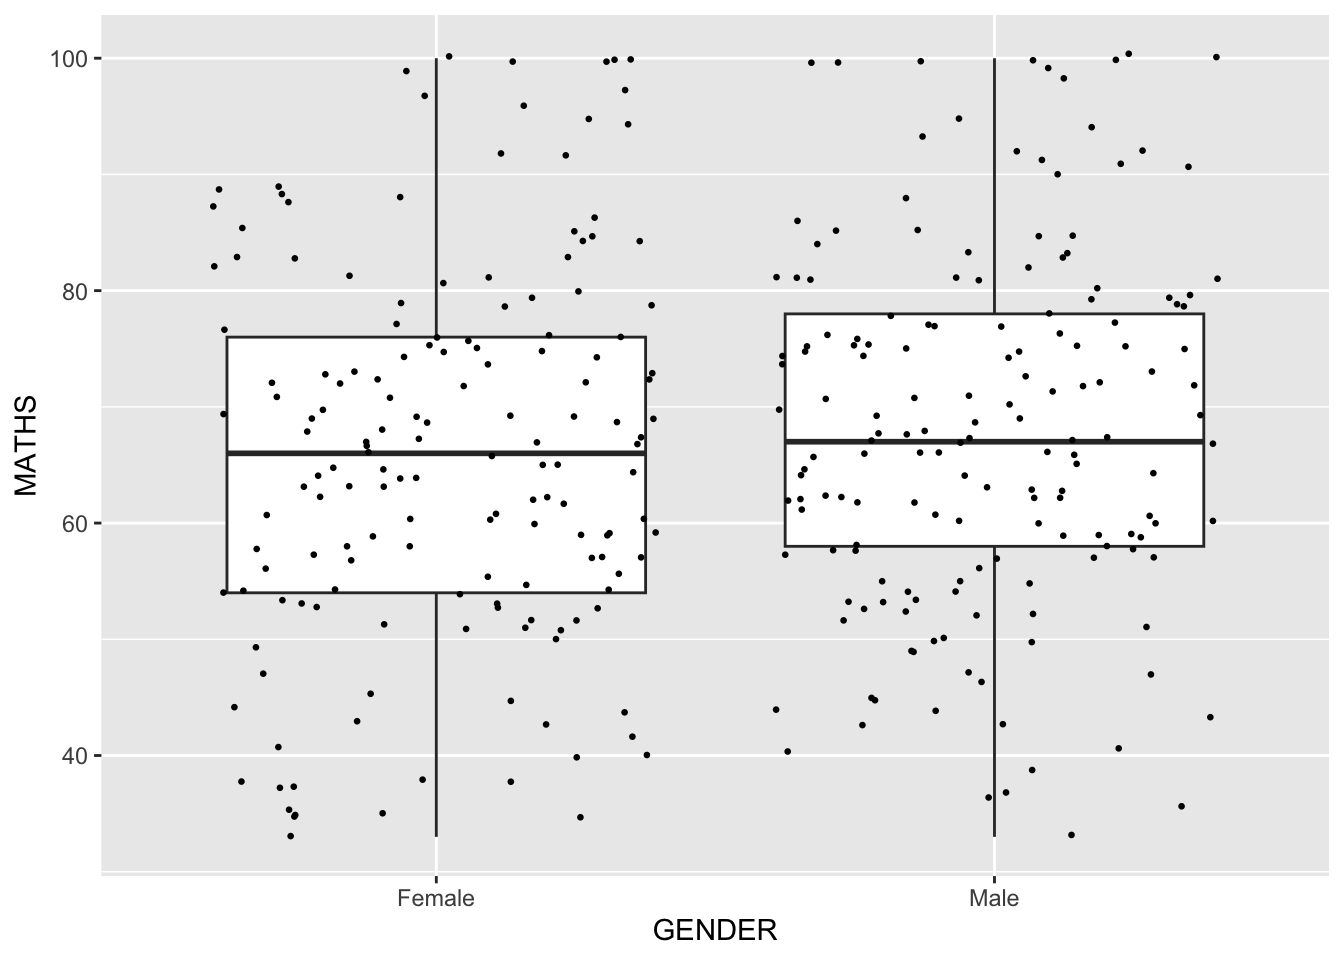
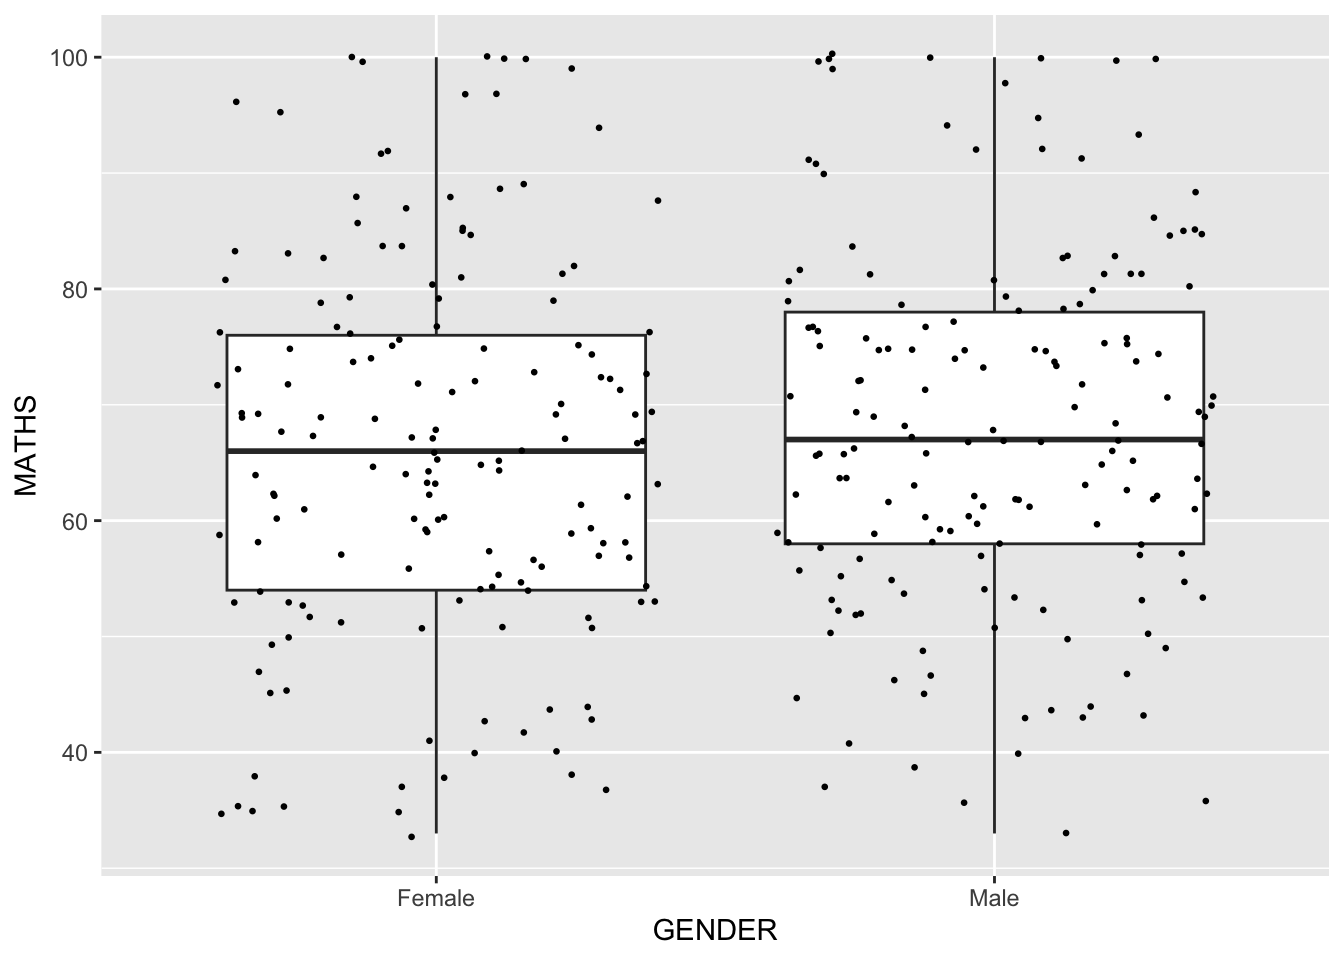
Add Hands-on Exercise 4

diff --git a/_site/Hands-on_Ex/Hands-on_Ex01/Hands-on_Ex01.html b/_site/Hands-on_Ex/Hands-on_Ex01/Hands-on_Ex01.html
@@ -145,6 +145,10 @@ pre > code.sourceCode > span > a:first-child::before { text-decoration: underlin
     <a class="dropdown-item" href="../../Hands-on_Ex/Hands-on_Ex03/Hands-on_Ex03.html">
  <span class="dropdown-text">Hands-on Exercise 3</span></a>
   </li>  
+        <li>
+    <a class="dropdown-item" href="../../Hands-on_Ex/Hands-on_Ex04/Hands-on_Ex04.html">
+ <span class="dropdown-text">Hands-on Exercise 4</span></a>
+  </li>  
     </ul>
   </li>
 </ul>

diff --git a/_site/Hands-on_Ex/Hands-on_Ex02/Hands-on_Ex02.html b/_site/Hands-on_Ex/Hands-on_Ex02/Hands-on_Ex02.html
@@ -145,6 +145,10 @@ pre > code.sourceCode > span > a:first-child::before { text-decoration: underlin
     <a class="dropdown-item" href="../../Hands-on_Ex/Hands-on_Ex03/Hands-on_Ex03.html">
  <span class="dropdown-text">Hands-on Exercise 3</span></a>
   </li>  
+        <li>
+    <a class="dropdown-item" href="../../Hands-on_Ex/Hands-on_Ex04/Hands-on_Ex04.html">
+ <span class="dropdown-text">Hands-on Exercise 4</span></a>
+  </li>  
     </ul>
   </li>
 </ul>

diff --git a/_site/about.html b/_site/about.html
@@ -144,6 +144,10 @@ pre > code.sourceCode > span > a:first-child::before { text-decoration: underlin
     <a class="dropdown-item" href="./Hands-on_Ex/Hands-on_Ex03/Hands-on_Ex03.html">
  <span class="dropdown-text">Hands-on Exercise 3</span></a>
   </li>  
+        <li>
+    <a class="dropdown-item" href="./Hands-on_Ex/Hands-on_Ex04/Hands-on_Ex04.html">
+ <span class="dropdown-text">Hands-on Exercise 4</span></a>
+  </li>  
     </ul>
   </li>
 </ul>

diff --git a/_site/index.html b/_site/index.html
@@ -109,6 +109,10 @@ ul.task-list li input[type="checkbox"] {
     <a class="dropdown-item" href="./Hands-on_Ex/Hands-on_Ex03/Hands-on_Ex03.html">
  <span class="dropdown-text">Hands-on Exercise 3</span></a>
   </li>  
+        <li>
+    <a class="dropdown-item" href="./Hands-on_Ex/Hands-on_Ex04/Hands-on_Ex04.html">
+ <span class="dropdown-text">Hands-on Exercise 4</span></a>
+  </li>  
     </ul>
   </li>
 </ul>